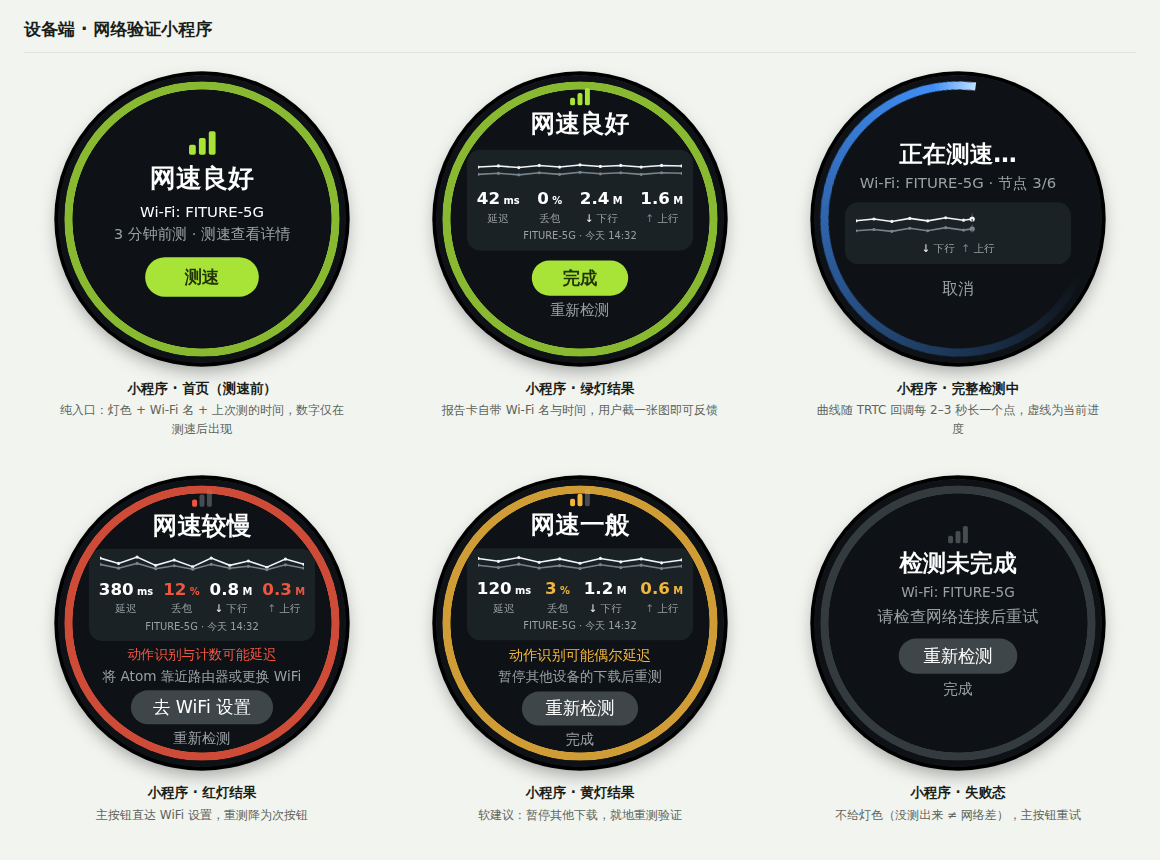
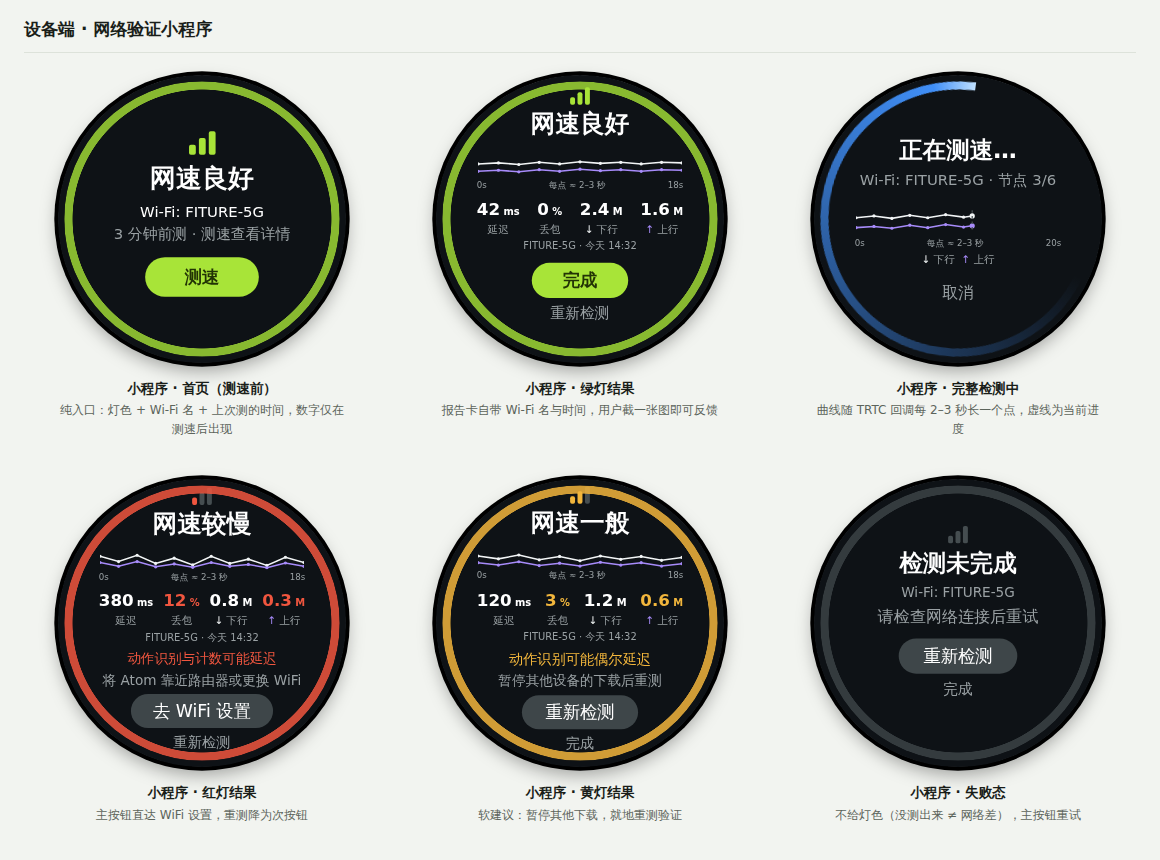
Waveform: gray-white/purple pairing, frameless card, time-axis labels
- Down = gray-white #F2F5F6, up = purple #A78BFA (single accent hue,
  higher contrast between the two lines than white/gray)
- Remove the report-card tinted container; waveform, metrics and
  footer sit directly on the pure-black screen, grouped by spacing
- Add a time axis under every waveform: 0s / total duration at the
  ends, sampling interval note in the middle
- PRD A4.2/A4.7 updated to match

Claude-Session: https://claude.ai/code/session_01GK61VJL6HvXSFdCeuPzjiU

diff --git a/Demo-界面交互UI设计.html b/Demo-界面交互UI设计.html
@@ -71,13 +71,14 @@
   .mbars i { display: block; width: 3px; border-radius: 1px; }
   .mbars .b1 { height: 4px; } .mbars .b2 { height: 7px; } .mbars .b3 { height: 10px; }
   .mbars .dim { background: #555d57; }
-  .report-card { width: 366px; background: #1b2226; border-radius: 22px; padding: 16px 16px 12px; box-sizing: border-box; display: flex; flex-direction: column; align-items: center; flex: none; }
+  .report-card { width: 366px; padding: 12px 16px 0; box-sizing: border-box; display: flex; flex-direction: column; align-items: center; flex: none; }
   .rc-metrics { display: flex; justify-content: space-between; width: 100%; margin-top: 10px; font-variant-numeric: tabular-nums; }
   .rc-metrics > div { text-align: center; }
   .rc-metrics .v { font-size: 27px; font-weight: 600; }
   .rc-metrics .v span { font-size: 16px; }
   .rc-metrics .k { font-size: 17px; color: var(--dev-sub); margin-top: 2px; }
-  .rc-foot { font-size: 16px; color: var(--dev-sub); margin-top: 5px; }
+  .rc-foot { font-size: 16px; color: var(--dev-sub); margin-top: 4px; }
+  .rc-axis { display: flex; justify-content: space-between; width: 100%; font-size: 14px; color: var(--dev-sub); margin-top: 3px; }
   .status-line { display: flex; align-items: center; justify-content: center; gap: 12px; min-height: 56px; font-size: 27px; color: #d4d8da; }
 
   .ring { position: absolute; inset: 10px; border-radius: 50%;
@@ -291,12 +292,12 @@
         <span class="bars"><i class="b1" style="background:var(--dev-good)"></i><i class="b2" style="background:var(--dev-good)"></i><i class="b3" style="background:var(--dev-good)"></i></span>
         <div class="big-status" style="margin-top:2px; font-size:40px" data-en="Good speed">网速良好</div>
         <div class="report-card" style="margin-top:14px">
-          <svg width="330" height="34" viewBox="0 0 330 34"><polyline points="0,11.9 33,10.2 66,12.8 99,9.3 132,11.9 165,8.5 198,11.0 231,9.3 264,11.9 297,9.3 330,10.2" fill="none" stroke="#f2f5f6" stroke-width="2.5" stroke-linecap="round"/><circle cx="0" cy="11.9" r="2.6" fill="#f2f5f6"/><circle cx="33" cy="10.2" r="2.6" fill="#f2f5f6"/><circle cx="66" cy="12.8" r="2.6" fill="#f2f5f6"/><circle cx="99" cy="9.3" r="2.6" fill="#f2f5f6"/><circle cx="132" cy="11.9" r="2.6" fill="#f2f5f6"/><circle cx="165" cy="8.5" r="2.6" fill="#f2f5f6"/><circle cx="198" cy="11.0" r="2.6" fill="#f2f5f6"/><circle cx="231" cy="9.3" r="2.6" fill="#f2f5f6"/><circle cx="264" cy="11.9" r="2.6" fill="#f2f5f6"/><circle cx="297" cy="9.3" r="2.6" fill="#f2f5f6"/><circle cx="330" cy="10.2" r="2.6" fill="#f2f5f6"/><polyline points="0,23.8 33,22.1 66,24.6 99,21.2 132,23.8 165,20.4 198,22.9 231,21.2 264,23.8 297,21.2 330,22.1" fill="none" stroke="#78848b" stroke-width="2.5" stroke-linecap="round"/><circle cx="0" cy="23.8" r="2.6" fill="#78848b"/><circle cx="33" cy="22.1" r="2.6" fill="#78848b"/><circle cx="66" cy="24.6" r="2.6" fill="#78848b"/><circle cx="99" cy="21.2" r="2.6" fill="#78848b"/><circle cx="132" cy="23.8" r="2.6" fill="#78848b"/><circle cx="165" cy="20.4" r="2.6" fill="#78848b"/><circle cx="198" cy="22.9" r="2.6" fill="#78848b"/><circle cx="231" cy="21.2" r="2.6" fill="#78848b"/><circle cx="264" cy="23.8" r="2.6" fill="#78848b"/><circle cx="297" cy="21.2" r="2.6" fill="#78848b"/><circle cx="330" cy="22.1" r="2.6" fill="#78848b"/></svg>
+          <svg width="330" height="34" viewBox="0 0 330 34"><polyline points="0,11.9 33,10.2 66,12.8 99,9.3 132,11.9 165,8.5 198,11.0 231,9.3 264,11.9 297,9.3 330,10.2" fill="none" stroke="#f2f5f6" stroke-width="2.5" stroke-linecap="round"/><circle cx="0" cy="11.9" r="2.6" fill="#f2f5f6"/><circle cx="33" cy="10.2" r="2.6" fill="#f2f5f6"/><circle cx="66" cy="12.8" r="2.6" fill="#f2f5f6"/><circle cx="99" cy="9.3" r="2.6" fill="#f2f5f6"/><circle cx="132" cy="11.9" r="2.6" fill="#f2f5f6"/><circle cx="165" cy="8.5" r="2.6" fill="#f2f5f6"/><circle cx="198" cy="11.0" r="2.6" fill="#f2f5f6"/><circle cx="231" cy="9.3" r="2.6" fill="#f2f5f6"/><circle cx="264" cy="11.9" r="2.6" fill="#f2f5f6"/><circle cx="297" cy="9.3" r="2.6" fill="#f2f5f6"/><circle cx="330" cy="10.2" r="2.6" fill="#f2f5f6"/><polyline points="0,23.8 33,22.1 66,24.6 99,21.2 132,23.8 165,20.4 198,22.9 231,21.2 264,23.8 297,21.2 330,22.1" fill="none" stroke="#a78bfa" stroke-width="2.5" stroke-linecap="round"/><circle cx="0" cy="23.8" r="2.6" fill="#a78bfa"/><circle cx="33" cy="22.1" r="2.6" fill="#a78bfa"/><circle cx="66" cy="24.6" r="2.6" fill="#a78bfa"/><circle cx="99" cy="21.2" r="2.6" fill="#a78bfa"/><circle cx="132" cy="23.8" r="2.6" fill="#a78bfa"/><circle cx="165" cy="20.4" r="2.6" fill="#a78bfa"/><circle cx="198" cy="22.9" r="2.6" fill="#a78bfa"/><circle cx="231" cy="21.2" r="2.6" fill="#a78bfa"/><circle cx="264" cy="23.8" r="2.6" fill="#a78bfa"/><circle cx="297" cy="21.2" r="2.6" fill="#a78bfa"/><circle cx="330" cy="22.1" r="2.6" fill="#a78bfa"/></svg><div class="rc-axis"><span>0s</span><span data-en="one dot every 2–3 s">每点 ≈ 2–3 秒</span><span>18s</span></div>
           <div class="rc-metrics">
             <div><div class="v">42<span> ms</span></div><div class="k" data-en="Latency">延迟</div></div>
             <div><div class="v">0<span> %</span></div><div class="k" data-en="Loss">丢包</div></div>
             <div><div class="v">2.4<span> M</span></div><div class="k"><span style="color:#f2f5f6">↓</span> <span data-en="Down">下行</span></div></div>
-            <div><div class="v">1.6<span> M</span></div><div class="k"><span style="color:#78848b">↑</span> <span data-en="Up">上行</span></div></div>
+            <div><div class="v">1.6<span> M</span></div><div class="k"><span style="color:#a78bfa">↑</span> <span data-en="Up">上行</span></div></div>
           </div>
           <div class="rc-foot">FITURE-5G · <span data-en="today 14:32">今天 14:32</span></div>
         </div>
@@ -314,8 +315,8 @@
         <div class="big-status" style="font-size:38px" data-en="Testing speed…">正在测速…</div>
         <div style="font-size:24px; color:var(--dev-sub); margin-top:4px" data-en="Wi-Fi: FITURE-5G · node 3/6">Wi-Fi: FITURE-5G · 节点 3/6</div>
         <div class="report-card" style="margin-top:14px; padding-top:14px">
-          <svg width="330" height="44" viewBox="0 0 330 44"><polyline points="0,16.0 29,13.0 58,17.0 87,12.0 116,16.0 145,11.0 174,15.0 188,13.0" fill="none" stroke="#f2f5f6" stroke-width="2.5" stroke-linecap="round"/><circle cx="0" cy="16.0" r="2.6" fill="#f2f5f6"/><circle cx="29" cy="13.0" r="2.6" fill="#f2f5f6"/><circle cx="58" cy="17.0" r="2.6" fill="#f2f5f6"/><circle cx="87" cy="12.0" r="2.6" fill="#f2f5f6"/><circle cx="116" cy="16.0" r="2.6" fill="#f2f5f6"/><circle cx="145" cy="11.0" r="2.6" fill="#f2f5f6"/><circle cx="174" cy="15.0" r="2.6" fill="#f2f5f6"/><circle cx="188" cy="13.0" r="4.2" fill="#f2f5f6"/><polyline points="0,32.0 29,30.0 58,33.0 87,28.0 116,32.0 145,27.0 174,31.0 188,29.0" fill="none" stroke="#78848b" stroke-width="2.5" stroke-linecap="round"/><circle cx="0" cy="32.0" r="2.6" fill="#78848b"/><circle cx="29" cy="30.0" r="2.6" fill="#78848b"/><circle cx="58" cy="33.0" r="2.6" fill="#78848b"/><circle cx="87" cy="28.0" r="2.6" fill="#78848b"/><circle cx="116" cy="32.0" r="2.6" fill="#78848b"/><circle cx="145" cy="27.0" r="2.6" fill="#78848b"/><circle cx="174" cy="31.0" r="2.6" fill="#78848b"/><circle cx="188" cy="29.0" r="4.2" fill="#78848b"/><line x1="188" y1="4" x2="188" y2="40" stroke="#4a5254" stroke-width="2" stroke-dasharray="4 5"/></svg>
-          <div style="font-size:17px; color:var(--dev-sub); margin-top:6px"><span style="color:#f2f5f6">↓</span> <span data-en="Down">下行</span>&nbsp;&nbsp;<span style="color:#78848b">↑</span> <span data-en="Up">上行</span></div>
+          <svg width="330" height="44" viewBox="0 0 330 44"><polyline points="0,16.0 29,13.0 58,17.0 87,12.0 116,16.0 145,11.0 174,15.0 188,13.0" fill="none" stroke="#f2f5f6" stroke-width="2.5" stroke-linecap="round"/><circle cx="0" cy="16.0" r="2.6" fill="#f2f5f6"/><circle cx="29" cy="13.0" r="2.6" fill="#f2f5f6"/><circle cx="58" cy="17.0" r="2.6" fill="#f2f5f6"/><circle cx="87" cy="12.0" r="2.6" fill="#f2f5f6"/><circle cx="116" cy="16.0" r="2.6" fill="#f2f5f6"/><circle cx="145" cy="11.0" r="2.6" fill="#f2f5f6"/><circle cx="174" cy="15.0" r="2.6" fill="#f2f5f6"/><circle cx="188" cy="13.0" r="4.2" fill="#f2f5f6"/><polyline points="0,32.0 29,30.0 58,33.0 87,28.0 116,32.0 145,27.0 174,31.0 188,29.0" fill="none" stroke="#a78bfa" stroke-width="2.5" stroke-linecap="round"/><circle cx="0" cy="32.0" r="2.6" fill="#a78bfa"/><circle cx="29" cy="30.0" r="2.6" fill="#a78bfa"/><circle cx="58" cy="33.0" r="2.6" fill="#a78bfa"/><circle cx="87" cy="28.0" r="2.6" fill="#a78bfa"/><circle cx="116" cy="32.0" r="2.6" fill="#a78bfa"/><circle cx="145" cy="27.0" r="2.6" fill="#a78bfa"/><circle cx="174" cy="31.0" r="2.6" fill="#a78bfa"/><circle cx="188" cy="29.0" r="4.2" fill="#a78bfa"/><line x1="188" y1="4" x2="188" y2="40" stroke="#4a5254" stroke-width="2" stroke-dasharray="4 5"/></svg><div class="rc-axis"><span>0s</span><span data-en="one dot every 2–3 s">每点 ≈ 2–3 秒</span><span>20s</span></div>
+          <div style="font-size:17px; color:var(--dev-sub); margin-top:6px"><span style="color:#f2f5f6">↓</span> <span data-en="Down">下行</span>&nbsp;&nbsp;<span style="color:#a78bfa">↑</span> <span data-en="Up">上行</span></div>
         </div>
         <div style="font-size:26px; color:var(--dev-sub); margin-top:22px" data-en="Cancel">取消</div>
         <div style="flex:1"></div>
@@ -330,12 +331,12 @@
         <span class="bars"><i class="b1" style="background:var(--dev-bad)"></i><i class="b2 dim"></i><i class="b3 dim"></i></span>
         <div class="big-status" style="margin-top:2px; font-size:40px" data-en="Slow speed">网速较慢</div>
         <div class="report-card" style="margin-top:10px; padding-top:8px">
-          <svg width="330" height="28" viewBox="0 0 330 28"><polyline points="0,7.0 30,15.6 60,5.4 90,18.7 120,10.1 150,21.0 180,7.0 210,18.7 240,11.7 270,21.8 300,8.6 330,17.1" fill="none" stroke="#f2f5f6" stroke-width="2.5" stroke-linecap="round"/><circle cx="0" cy="7.0" r="2.6" fill="#f2f5f6"/><circle cx="30" cy="15.6" r="2.6" fill="#f2f5f6"/><circle cx="60" cy="5.4" r="2.6" fill="#f2f5f6"/><circle cx="90" cy="18.7" r="2.6" fill="#f2f5f6"/><circle cx="120" cy="10.1" r="2.6" fill="#f2f5f6"/><circle cx="150" cy="21.0" r="2.6" fill="#f2f5f6"/><circle cx="180" cy="7.0" r="2.6" fill="#f2f5f6"/><circle cx="210" cy="18.7" r="2.6" fill="#f2f5f6"/><circle cx="240" cy="11.7" r="2.6" fill="#f2f5f6"/><circle cx="270" cy="21.8" r="2.6" fill="#f2f5f6"/><circle cx="300" cy="8.6" r="2.6" fill="#f2f5f6"/><circle cx="330" cy="17.1" r="2.6" fill="#f2f5f6"/><polyline points="0,17.1 30,23.3 60,15.6 90,24.1 120,19.4 150,24.9 180,17.1 210,23.3 240,20.2 270,25.7 300,17.9 330,23.3" fill="none" stroke="#78848b" stroke-width="2.5" stroke-linecap="round"/><circle cx="0" cy="17.1" r="2.6" fill="#78848b"/><circle cx="30" cy="23.3" r="2.6" fill="#78848b"/><circle cx="60" cy="15.6" r="2.6" fill="#78848b"/><circle cx="90" cy="24.1" r="2.6" fill="#78848b"/><circle cx="120" cy="19.4" r="2.6" fill="#78848b"/><circle cx="150" cy="24.9" r="2.6" fill="#78848b"/><circle cx="180" cy="17.1" r="2.6" fill="#78848b"/><circle cx="210" cy="23.3" r="2.6" fill="#78848b"/><circle cx="240" cy="20.2" r="2.6" fill="#78848b"/><circle cx="270" cy="25.7" r="2.6" fill="#78848b"/><circle cx="300" cy="17.9" r="2.6" fill="#78848b"/><circle cx="330" cy="23.3" r="2.6" fill="#78848b"/></svg>
+          <svg width="330" height="28" viewBox="0 0 330 28"><polyline points="0,7.0 30,15.6 60,5.4 90,18.7 120,10.1 150,21.0 180,7.0 210,18.7 240,11.7 270,21.8 300,8.6 330,17.1" fill="none" stroke="#f2f5f6" stroke-width="2.5" stroke-linecap="round"/><circle cx="0" cy="7.0" r="2.6" fill="#f2f5f6"/><circle cx="30" cy="15.6" r="2.6" fill="#f2f5f6"/><circle cx="60" cy="5.4" r="2.6" fill="#f2f5f6"/><circle cx="90" cy="18.7" r="2.6" fill="#f2f5f6"/><circle cx="120" cy="10.1" r="2.6" fill="#f2f5f6"/><circle cx="150" cy="21.0" r="2.6" fill="#f2f5f6"/><circle cx="180" cy="7.0" r="2.6" fill="#f2f5f6"/><circle cx="210" cy="18.7" r="2.6" fill="#f2f5f6"/><circle cx="240" cy="11.7" r="2.6" fill="#f2f5f6"/><circle cx="270" cy="21.8" r="2.6" fill="#f2f5f6"/><circle cx="300" cy="8.6" r="2.6" fill="#f2f5f6"/><circle cx="330" cy="17.1" r="2.6" fill="#f2f5f6"/><polyline points="0,17.1 30,23.3 60,15.6 90,24.1 120,19.4 150,24.9 180,17.1 210,23.3 240,20.2 270,25.7 300,17.9 330,23.3" fill="none" stroke="#a78bfa" stroke-width="2.5" stroke-linecap="round"/><circle cx="0" cy="17.1" r="2.6" fill="#a78bfa"/><circle cx="30" cy="23.3" r="2.6" fill="#a78bfa"/><circle cx="60" cy="15.6" r="2.6" fill="#a78bfa"/><circle cx="90" cy="24.1" r="2.6" fill="#a78bfa"/><circle cx="120" cy="19.4" r="2.6" fill="#a78bfa"/><circle cx="150" cy="24.9" r="2.6" fill="#a78bfa"/><circle cx="180" cy="17.1" r="2.6" fill="#a78bfa"/><circle cx="210" cy="23.3" r="2.6" fill="#a78bfa"/><circle cx="240" cy="20.2" r="2.6" fill="#a78bfa"/><circle cx="270" cy="25.7" r="2.6" fill="#a78bfa"/><circle cx="300" cy="17.9" r="2.6" fill="#a78bfa"/><circle cx="330" cy="23.3" r="2.6" fill="#a78bfa"/></svg><div class="rc-axis"><span>0s</span><span data-en="one dot every 2–3 s">每点 ≈ 2–3 秒</span><span>18s</span></div>
           <div class="rc-metrics">
             <div><div class="v">380<span> ms</span></div><div class="k" data-en="Latency">延迟</div></div>
             <div><div class="v" style="color:var(--dev-bad)">12<span> %</span></div><div class="k" data-en="Loss">丢包</div></div>
             <div><div class="v">0.8<span> M</span></div><div class="k"><span style="color:#f2f5f6">↓</span> <span data-en="Down">下行</span></div></div>
-            <div><div class="v" style="color:var(--dev-bad)">0.3<span> M</span></div><div class="k"><span style="color:#78848b">↑</span> <span data-en="Up">上行</span></div></div>
+            <div><div class="v" style="color:var(--dev-bad)">0.3<span> M</span></div><div class="k"><span style="color:#a78bfa">↑</span> <span data-en="Up">上行</span></div></div>
           </div>
           <div class="rc-foot">FITURE-5G · <span data-en="today 14:32">今天 14:32</span></div>
         </div>
@@ -355,12 +356,12 @@
         <span class="bars"><i class="b1" style="background:var(--dev-warn)"></i><i class="b2" style="background:var(--dev-warn)"></i><i class="b3 dim"></i></span>
         <div class="big-status" style="margin-top:2px; font-size:40px" data-en="Fair speed">网速一般</div>
         <div class="report-card" style="margin-top:10px; padding-top:8px">
-          <svg width="330" height="28" viewBox="0 0 330 28"><polyline points="0,8.6 33,13.2 66,7.0 99,14.8 132,9.3 165,16.3 198,8.6 231,14.0 264,9.3 297,15.6 330,10.9" fill="none" stroke="#f2f5f6" stroke-width="2.5" stroke-linecap="round"/><circle cx="0" cy="8.6" r="2.6" fill="#f2f5f6"/><circle cx="33" cy="13.2" r="2.6" fill="#f2f5f6"/><circle cx="66" cy="7.0" r="2.6" fill="#f2f5f6"/><circle cx="99" cy="14.8" r="2.6" fill="#f2f5f6"/><circle cx="132" cy="9.3" r="2.6" fill="#f2f5f6"/><circle cx="165" cy="16.3" r="2.6" fill="#f2f5f6"/><circle cx="198" cy="8.6" r="2.6" fill="#f2f5f6"/><circle cx="231" cy="14.0" r="2.6" fill="#f2f5f6"/><circle cx="264" cy="9.3" r="2.6" fill="#f2f5f6"/><circle cx="297" cy="15.6" r="2.6" fill="#f2f5f6"/><circle cx="330" cy="10.9" r="2.6" fill="#f2f5f6"/><polyline points="0,19.4 33,23.3 66,17.9 99,24.1 132,20.2 165,24.9 198,18.7 231,23.3 264,19.4 297,24.9 330,21.0" fill="none" stroke="#78848b" stroke-width="2.5" stroke-linecap="round"/><circle cx="0" cy="19.4" r="2.6" fill="#78848b"/><circle cx="33" cy="23.3" r="2.6" fill="#78848b"/><circle cx="66" cy="17.9" r="2.6" fill="#78848b"/><circle cx="99" cy="24.1" r="2.6" fill="#78848b"/><circle cx="132" cy="20.2" r="2.6" fill="#78848b"/><circle cx="165" cy="24.9" r="2.6" fill="#78848b"/><circle cx="198" cy="18.7" r="2.6" fill="#78848b"/><circle cx="231" cy="23.3" r="2.6" fill="#78848b"/><circle cx="264" cy="19.4" r="2.6" fill="#78848b"/><circle cx="297" cy="24.9" r="2.6" fill="#78848b"/><circle cx="330" cy="21.0" r="2.6" fill="#78848b"/></svg>
+          <svg width="330" height="28" viewBox="0 0 330 28"><polyline points="0,8.6 33,13.2 66,7.0 99,14.8 132,9.3 165,16.3 198,8.6 231,14.0 264,9.3 297,15.6 330,10.9" fill="none" stroke="#f2f5f6" stroke-width="2.5" stroke-linecap="round"/><circle cx="0" cy="8.6" r="2.6" fill="#f2f5f6"/><circle cx="33" cy="13.2" r="2.6" fill="#f2f5f6"/><circle cx="66" cy="7.0" r="2.6" fill="#f2f5f6"/><circle cx="99" cy="14.8" r="2.6" fill="#f2f5f6"/><circle cx="132" cy="9.3" r="2.6" fill="#f2f5f6"/><circle cx="165" cy="16.3" r="2.6" fill="#f2f5f6"/><circle cx="198" cy="8.6" r="2.6" fill="#f2f5f6"/><circle cx="231" cy="14.0" r="2.6" fill="#f2f5f6"/><circle cx="264" cy="9.3" r="2.6" fill="#f2f5f6"/><circle cx="297" cy="15.6" r="2.6" fill="#f2f5f6"/><circle cx="330" cy="10.9" r="2.6" fill="#f2f5f6"/><polyline points="0,19.4 33,23.3 66,17.9 99,24.1 132,20.2 165,24.9 198,18.7 231,23.3 264,19.4 297,24.9 330,21.0" fill="none" stroke="#a78bfa" stroke-width="2.5" stroke-linecap="round"/><circle cx="0" cy="19.4" r="2.6" fill="#a78bfa"/><circle cx="33" cy="23.3" r="2.6" fill="#a78bfa"/><circle cx="66" cy="17.9" r="2.6" fill="#a78bfa"/><circle cx="99" cy="24.1" r="2.6" fill="#a78bfa"/><circle cx="132" cy="20.2" r="2.6" fill="#a78bfa"/><circle cx="165" cy="24.9" r="2.6" fill="#a78bfa"/><circle cx="198" cy="18.7" r="2.6" fill="#a78bfa"/><circle cx="231" cy="23.3" r="2.6" fill="#a78bfa"/><circle cx="264" cy="19.4" r="2.6" fill="#a78bfa"/><circle cx="297" cy="24.9" r="2.6" fill="#a78bfa"/><circle cx="330" cy="21.0" r="2.6" fill="#a78bfa"/></svg><div class="rc-axis"><span>0s</span><span data-en="one dot every 2–3 s">每点 ≈ 2–3 秒</span><span>18s</span></div>
           <div class="rc-metrics">
             <div><div class="v">120<span> ms</span></div><div class="k" data-en="Latency">延迟</div></div>
             <div><div class="v" style="color:var(--dev-warn)">3<span> %</span></div><div class="k" data-en="Loss">丢包</div></div>
             <div><div class="v">1.2<span> M</span></div><div class="k"><span style="color:#f2f5f6">↓</span> <span data-en="Down">下行</span></div></div>
-            <div><div class="v" style="color:var(--dev-warn)">0.6<span> M</span></div><div class="k"><span style="color:#78848b">↑</span> <span data-en="Up">上行</span></div></div>
+            <div><div class="v" style="color:var(--dev-warn)">0.6<span> M</span></div><div class="k"><span style="color:#a78bfa">↑</span> <span data-en="Up">上行</span></div></div>
           </div>
           <div class="rc-foot">FITURE-5G · <span data-en="today 14:32">今天 14:32</span></div>
         </div>

diff --git a/PRD-atom网络状态检测与信号同步.md b/PRD-atom网络状态检测与信号同步.md
@@ -117,7 +117,7 @@ ATOM 是一台通过 WiFi 联网的嵌入式训练设备，上课时通过 TRTC 
 ![网速测试小程序六态：首页 / 绿灯结果 / 检测中 / 红灯结果 / 黄灯结果 / 失败态](./images/界面-网速测试小程序.png)
 
 - **A4.1 首页 = 纯入口（测速前）**：灯色 bars + 一句话结论 + **当前 Wi-Fi 名（SSID）** + 副行数据时效（「刚刚更新」≤60 秒 /「N 分钟前测」≤5 分钟）+ 主按钮「测速」。SSID 必须外显——用户点进来看「网好不好」时往往不知道自己连的是哪个 WiFi，灯色结论必须挂在具体网络名下才可归因（与 B2 按 SSID 缓存一致）。**不展示任何数字指标**——常驻探测没有真实带宽，数字只在测速后出现，「测速前 = 入口、测速后 = 报告」天然可区分；缓存超 5 分钟不显示旧灯色，直接「检测中…」并刷新；
-- **A4.2 检测中**：标题「正在测速…」+ 副行「Wi-Fi: {SSID} · 节点 N / M」（按官方回调驱动，不做假进度）+ 报告卡内波形实时生长（↓ 亮白 = 下行、↑ 中灰 = 上行，见 A4.7）+「取消」（调用 `stopSpeedTest`）；按钮防重入（官方限制同一时间仅一个测速任务）；
+- **A4.2 检测中**：标题「正在测速…」+ 副行「Wi-Fi: {SSID} · 节点 N / M」（按官方回调驱动，不做假进度）+ 报告卡内波形实时生长（↓ 灰白 = 下行、↑ 紫 = 上行，见 A4.7）+「取消」（调用 `stopSpeedTest`）；按钮防重入（官方限制同一时间仅一个测速任务）；
 - **A4.3 结果页信息分组（四组，组间距 > 组内距）**：① 结论（bars + 一句话）→ ② **报告卡**（波形定格 + 四指标一行：延迟 / 丢包 / ↓ 下行 / ↑ 上行，下行上行标签带曲线同色箭头；不达期望的项用灯色着色；-1 显示「—」；**卡内页脚 = SSID + 测试时间**，如「FITURE-5G · 今天 14:32」）→ ③ 影响 + 建议（仅黄 / 红：影响 = 对上课意味着什么，如「动作识别可能延迟」；建议 = 怎么办）→ ④ 操作。**一张报告卡 = 一份完整测速报告，截图即可反馈客服**（截图给人看，上报给系统看）；卡内字号缩小（近距操作 UI）。稳定性派生标签：样本方差超阈值时卡下方显示「网络波动较大」；
 - **A4.4 按钮逻辑（主按钮 = 最短解决路径）**：
 
@@ -133,9 +133,10 @@ ATOM 是一台通过 WiFi 联网的嵌入式训练设备，上课时通过 TRTC 
 - **A4.5 失败态**：`success = false` 时**不给任何灯色**（没测出来 ≠ 网络差），「检测未完成 / 请检查网络连接后重试」；`errMsg` 仅上报不上屏；
 - **A4.6 历史与精简**：结果本地存近 10 次（按 SSID 分组）并上报；小程序内「历史记录」次级入口（P2）；各页面移除顶部时钟（与检测任务无关的信息不上屏）；
 - **A4.7 波形图规范（时间密度 · 实时刷新 · 配色）**：
-  - **配色（单色系）**：↓ 下行 = 亮白 `#F2F5F6`（主）、↑ 上行 = 中灰 `#78848B`（辅），图例与指标标签带同色箭头——**亮度分层 + 箭头才是主编码**，不依赖色相分辨（色盲天然安全）。上下行没有正式行业标准色，事实惯例只有「箭头 ↓↑ + 下行在前」是通用的（Ookla 等），颜色各家自定；曲线**禁用红 / 黄 / 绿**（三色已被红绿灯语义占用，V1.0 前的稿子上行曲线恰好撞了绿灯色值，已改），也不引入青紫等第二色相搭配——报告卡保持单色，让灯色成为页面里唯一的「颜色语言」；
+  - **配色**：↓ 下行 = 灰白 `#F2F5F6`、↑ 上行 = 紫色 `#A78BFA`，图例与指标标签带同色箭头（箭头 ↓↑ + 下行在前是唯一通用的行业惯例，颜色各家自定）。灰白 + 紫只占一个色相位、区分度高；曲线**禁用红 / 黄 / 绿**——三色已被红绿灯语义占用，曲线用灯色会造成「上行 = 绿灯」的误读（V1.0 前的稿子恰好踩过这个坑）；
+  - **无底框**：报告卡不加底色容器和描边，波形 / 指标 / 页脚直接铺在纯黑背景上，靠间距分组——圆屏面积小，多一层浅色框反而显碎；
   - **时间密度**：一个样本点 = 一次 TRTC `onSpeedTestResult` 进度回调，官方节奏约每 2–3 秒一点、整次 10–20 秒，共约 5–8 点；备选文件测速路径按 1 秒一个吞吐量桶采样（约 15–30 点）。点即真实样本，**只画折线不做平滑插值**（不虚构数据），且**每个样本位置画一个小圆点**（r ≈ 2.5px）——点标出「哪一刻真的回传过数据」，线只负责连接；
-  - **实时刷新**：检测中每收到一个回调就在曲线右端追加一点（可 300ms 缓动画入），**最新一点放大显示**（r ≈ 4px，标记「刚回传」），x 轴 = 已用时长（0 → 预计总时长，定宽不滚动），虚线游标标记当前进度；回调间隔内数值不做假动画。带宽值在延迟阶段尚无效（-1），曲线从首个有效带宽样本开始画；
+  - **实时刷新**：检测中每收到一个回调就在曲线右端追加一点（可 300ms 缓动画入），**最新一点放大显示**（r ≈ 4px，标记「刚回传」），x 轴 = 已用时长（0 → 预计总时长，定宽不滚动），虚线游标标记当前进度；**波形下沿标注时间轴**：左右两端 `0s` / 总时长，中间注明采样间隔「每点 ≈ 2–3 秒」，让读图者不用猜横轴是什么；回调间隔内数值不做假动画。带宽值在延迟阶段尚无效（-1），曲线从首个有效带宽样本开始画；
   - **定格复用**：测速结束波形数据原样冻结进结果页报告卡（同一份数据、同一组件），不重绘不重采样。
 
 ---
